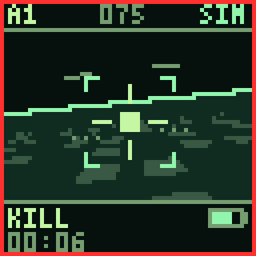
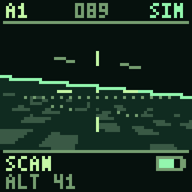
fix(site): remove KILL animation from rescue site; rebuild GIFs from audited segments
Root cause: horizon.gif (used for the idle scan cell) plays SCAN for
~128 frames, then a KILL countdown and KILL FEED LOST. Early-frame
inspection missed it; the owner caught it on the live page.

Fix: all site GIFs now built by cloudflare/build_panels.py from
frame-audited segments of recon-hud.gif only (SCAN/SHARE/CHECK/DOUBT,
every frame's status text inspected), montage composed from the same
clips. State mapping improved: hazard=CHECK VERIFY, forged=DOUBT.
Guard: cloudflare/check_panels.py asserts only audited assets are
referenced and segments stay inside audited ranges.

diff --git a/cloudflare/site/index.html b/cloudflare/site/index.html
@@ -59,7 +59,7 @@
   </div>
   <figure>
     <img src="panels/wall-montage.gif" data-still="panels/wall-montage.png" alt="Animated montage of the sixteen real panel displays in flight-simulation mode" width="440" loading="lazy">
-    <figcaption>The actual panel animations the physical nodes play (flight-simulation display set, reduced for the web). Each replay cell below uses the same animation family: scanning, sharing a report, or holding for confirmation.</figcaption>
+    <figcaption>The actual panel animations the physical nodes play (flight-simulation display set, reduced for the web). Each replay cell below uses the same audited animation segments: scanning, sharing a report, checking, or doubting a claim.</figcaption>
   </figure>
   <div id="wall" class="wall" role="img" aria-label="4 by 4 grid of simulated nodes"></div>
   <p id="verdict" aria-live="polite"></p>

diff --git a/cloudflare/site/app.js b/cloudflare/site/app.js
@@ -75,7 +75,7 @@ loadBenchmark(null);
 const wall = document.getElementById("wall");
 const nodes = ["A1","A2","A3","A4","B1","B2","B3","B4","C1","C2","C3","C4","D1","D2","D3","D4"];
 const reduceMotion = window.matchMedia("(prefers-reduced-motion: reduce)").matches;
-const PANEL = { idle: "scan", survivor: "share", hazard: "hold", forged: "hold" };
+const PANEL = { idle: "scan", survivor: "share", hazard: "check", forged: "doubt" };
 function panelSrc(kind) { return "panels/" + PANEL[kind] + (reduceMotion ? ".png" : ".gif"); }
 wall.replaceChildren(...nodes.map(n => {
   const d = el("div", undefined, "node"); d.id = "node-" + n;

diff --git a/cloudflare/build_panels.py b/cloudflare/build_panels.py
@@ -1,0 +1,78 @@
+#!/usr/bin/env python3
+"""Build the website's panel GIFs from audited-safe animation segments.
+
+Root cause of the 2026-11-06 KILL-on-site bug: previews/recon-hud/horizon.gif
+looks like a SCAN animation for its first ~128 frames, then plays a KILL
+countdown and KILL FEED LOST. Sampling only early frames is not an audit.
+
+Rule: every website GIF is built ONLY from the frame ranges below, whose
+bottom status text was inspected frame-by-frame (every 6th frame strip plus
+segment boundaries). Banned sources for the rescue-themed site:
+horizon.gif (KILL after f128), signal-lost.gif, events.gif,
+close-approach.gif, kill-countdown.gif (KILL/ENGAGE wording throughout).
+
+Source: previews/recon-hud/recon-hud.gif (144 frames), states:
+  HOLD 0-23, SCAN 24-47, SEEN 48-71, SHARE 72-95, CHECK 96-119, DOUBT 120-143
+Margins of 2 frames are trimmed at both ends of each segment.
+Requires Pillow:  uv run --with pillow python3 cloudflare/build_panels.py
+"""
+from pathlib import Path
+from PIL import Image
+
+ROOT = Path(__file__).resolve().parent.parent
+SRC = ROOT / "previews/recon-hud/recon-hud.gif"
+OUT = ROOT / "cloudflare/site/panels"
+SEGMENTS = {  # name -> (first, last) inclusive, audited safe
+    "scan": (26, 45),    # SCAN ALT
+    "share": (74, 93),   # SHARE REPORT
+    "check": (98, 117),  # CHECK VERIFY
+    "doubt": (122, 141), # DOUBT 2 CLAIMS
+}
+SIZE = 192
+
+def load_frames():
+    im = Image.open(SRC)
+    frames = []
+    for i in range(im.n_frames):
+        im.seek(i)
+        frames.append((im.convert("RGB"), im.info.get("duration", 80)))
+    return frames
+
+def clip(frames, seg, size=SIZE):
+    a, b = SEGMENTS[seg]
+    out = []
+    for f, d in frames[a:b + 1]:
+        out.append((f.resize((size, size)).quantize(colors=64, method=Image.MEDIANCUT), d))
+    return out
+
+def save_gif(frames, path):
+    frames[0][0].save(path, save_all=True, append_images=[f for f, _ in frames[1:]],
+                      duration=[d for _, d in frames], loop=0, optimize=True)
+
+def main():
+    OUT.mkdir(parents=True, exist_ok=True)
+    frames = load_frames()
+    clips = {name: clip(frames, name) for name in SEGMENTS}
+    for name, c in clips.items():
+        save_gif(c, OUT / f"{name}.gif")
+        c[len(c) // 2][0].convert("RGB").save(OUT / f"{name}.png")
+        print(name, len(c), "frames")
+    # 4x4 montage composed from the same audited clips, offset per cell.
+    cell = 96
+    montage = []
+    base = [clips[k] for k in ("scan", "share", "check", "doubt")]
+    total = 24
+    for t in range(total):
+        canvas = Image.new("RGB", (cell * 4, cell * 4), (5, 12, 10))
+        for r in range(4):
+            for c in range(4):
+                cl = base[(r + c) % 4]
+                f = cl[(t + (r * 4 + c) * 3) % len(cl)][0].convert("RGB").resize((cell, cell))
+                canvas.paste(f, (c * cell, r * cell))
+        montage.append((canvas.quantize(colors=64, method=Image.MEDIANCUT), 120))
+    save_gif(montage, OUT / "wall-montage.gif")
+    montage[10][0].convert("RGB").save(OUT / "wall-montage.png")
+    print("wall-montage", total, "frames")
+
+if __name__ == "__main__":
+    main()

diff --git a/cloudflare/check_panels.py b/cloudflare/check_panels.py
@@ -1,0 +1,32 @@
+#!/usr/bin/env python3
+"""Guard: rescue-themed site must never ship KILL/ENGAGE panel animations.
+
+Asserts the site references only audited panel assets, and that the build
+script's source segments stay inside the frame-audited safe ranges of
+previews/recon-hud/recon-hud.gif (HOLD/SCAN/SEEN/SHARE/CHECK/DOUBT only).
+Banned sources: horizon.gif (KILL countdown from frame ~128),
+signal-lost.gif, events.gif, close-approach.gif, kill-countdown.gif.
+Run: uv run python3 cloudflare/check_panels.py
+"""
+import pathlib, re, sys
+ROOT = pathlib.Path(__file__).resolve().parent.parent
+site = ROOT / "cloudflare/site"
+allowed = {"scan.gif", "share.gif", "check.gif", "doubt.gif", "wall-montage.gif",
+           "scan.png", "share.png", "check.png", "doubt.png", "wall-montage.png"}
+refs = set()
+for f in (site / "index.html", site / "app.js"):
+    refs |= set(re.findall(r"panels/([a-z0-9.-]+)", f.read_text()))
+refs |= {p.name for p in (site / "panels").iterdir()}
+bad = refs - allowed
+assert not bad, f"unaudited panel assets referenced: {bad}"
+build = (ROOT / "cloudflare/build_panels.py").read_text()
+for banned in ("horizon.gif", "signal-lost.gif", "events.gif", "close-approach.gif", "kill-countdown.gif"):
+    assert f'"{banned}"' not in (site / "app.js").read_text() and banned not in (site / "index.html").read_text(), banned
+segs = {m.group(1): (int(m.group(2)), int(m.group(3))) for m in
+        re.finditer(r'"(scan|share|check|doubt)": \((\d+), (\d+)\)', build)}
+audited = {"scan": (24, 47), "share": (72, 95), "check": (96, 119), "doubt": (120, 143)}
+assert segs.keys() == audited.keys(), segs
+for k, (a, b) in segs.items():
+    lo, hi = audited[k]
+    assert lo <= a and b <= hi, f"{k} segment {a}-{b} outside audited {lo}-{hi}"
+print("panel assets OK:", sorted(refs))
